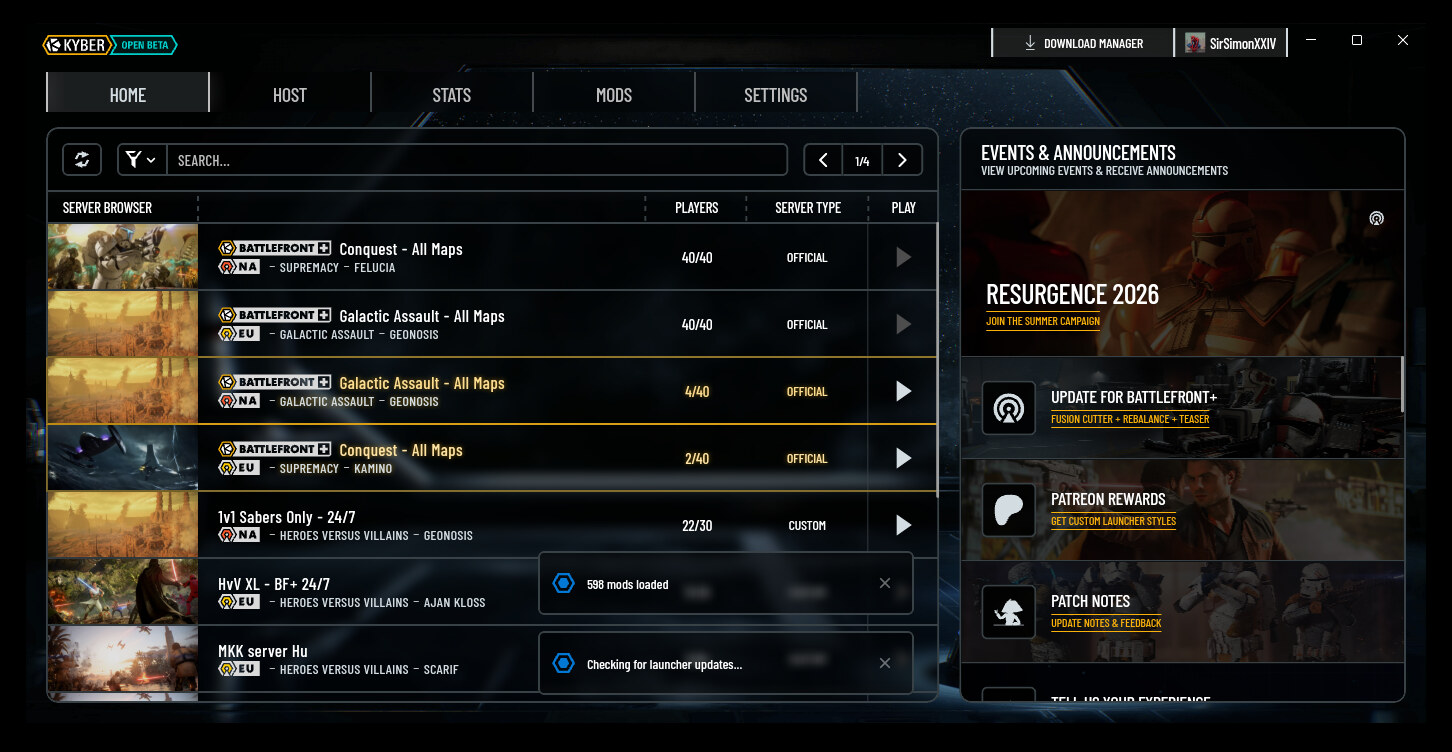
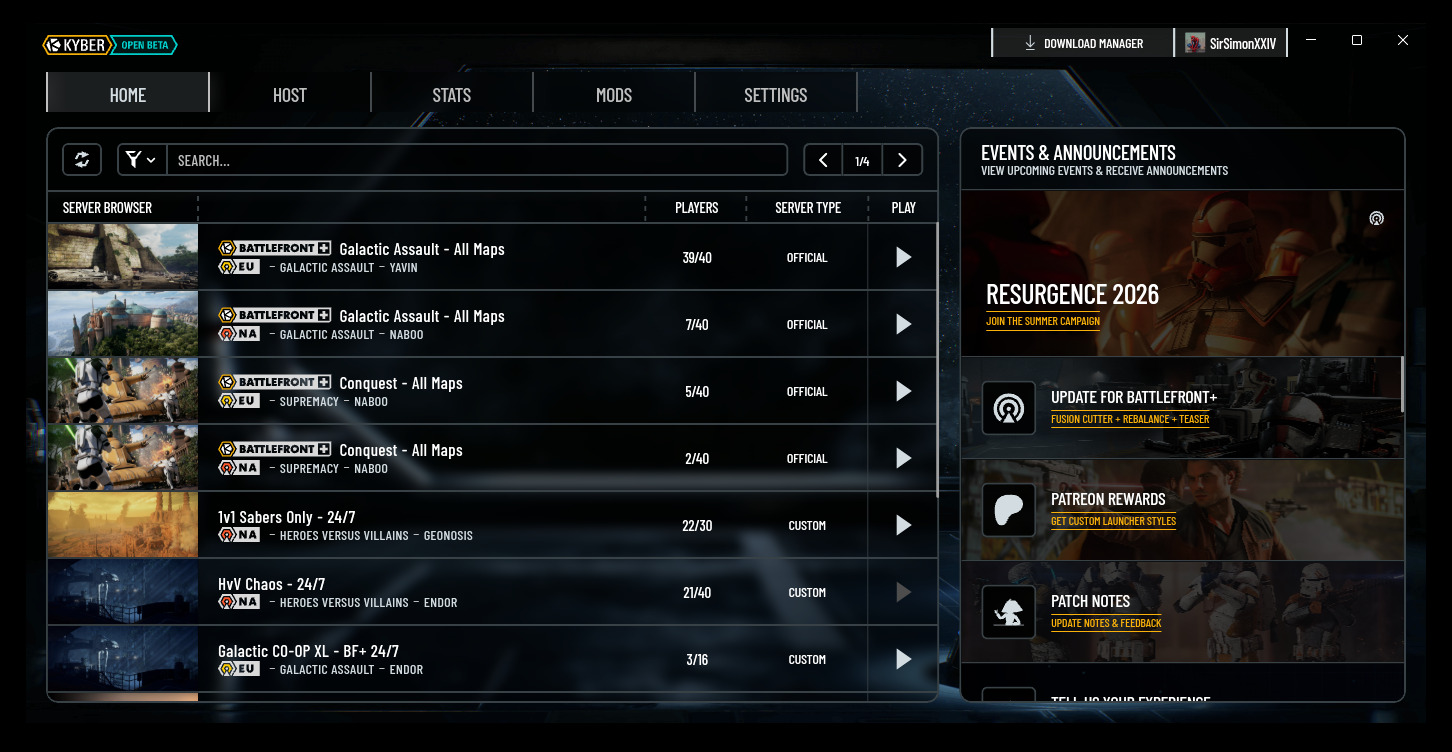
docs: replace the screenshots with current ones

diff --git a/README.md b/README.md
@@ -37,7 +37,6 @@ not to upstream Kyber.
 > SteamOS 3.6 cannot run it. See [Install](#install) for the supported
 > systems and the Distrobox workaround.
 
-<!-- Screenshots temporarily removed, to be replaced with current ones.
 <p align="center">
   <img src="assets/screenshot-home.jpg" alt="Server browser" width="900">
 </p>
@@ -46,12 +45,11 @@ not to upstream Kyber.
 <summary>More screenshots</summary>
 
 <p align="center">
-  <img src="assets/screenshot-mods.jpg" alt="Mod list and collections" width="900">
-  <img src="assets/screenshot-settings.jpg" alt="Settings" width="900">
+  <img src="assets/screenshot-mods.jpg" alt="Mod browser" width="900">
+  <img src="assets/screenshot-settings.jpg" alt="Mods, Proton and renderer settings" width="900">
 </p>
 
 </details>
--->
 
 ## Latest release
 
